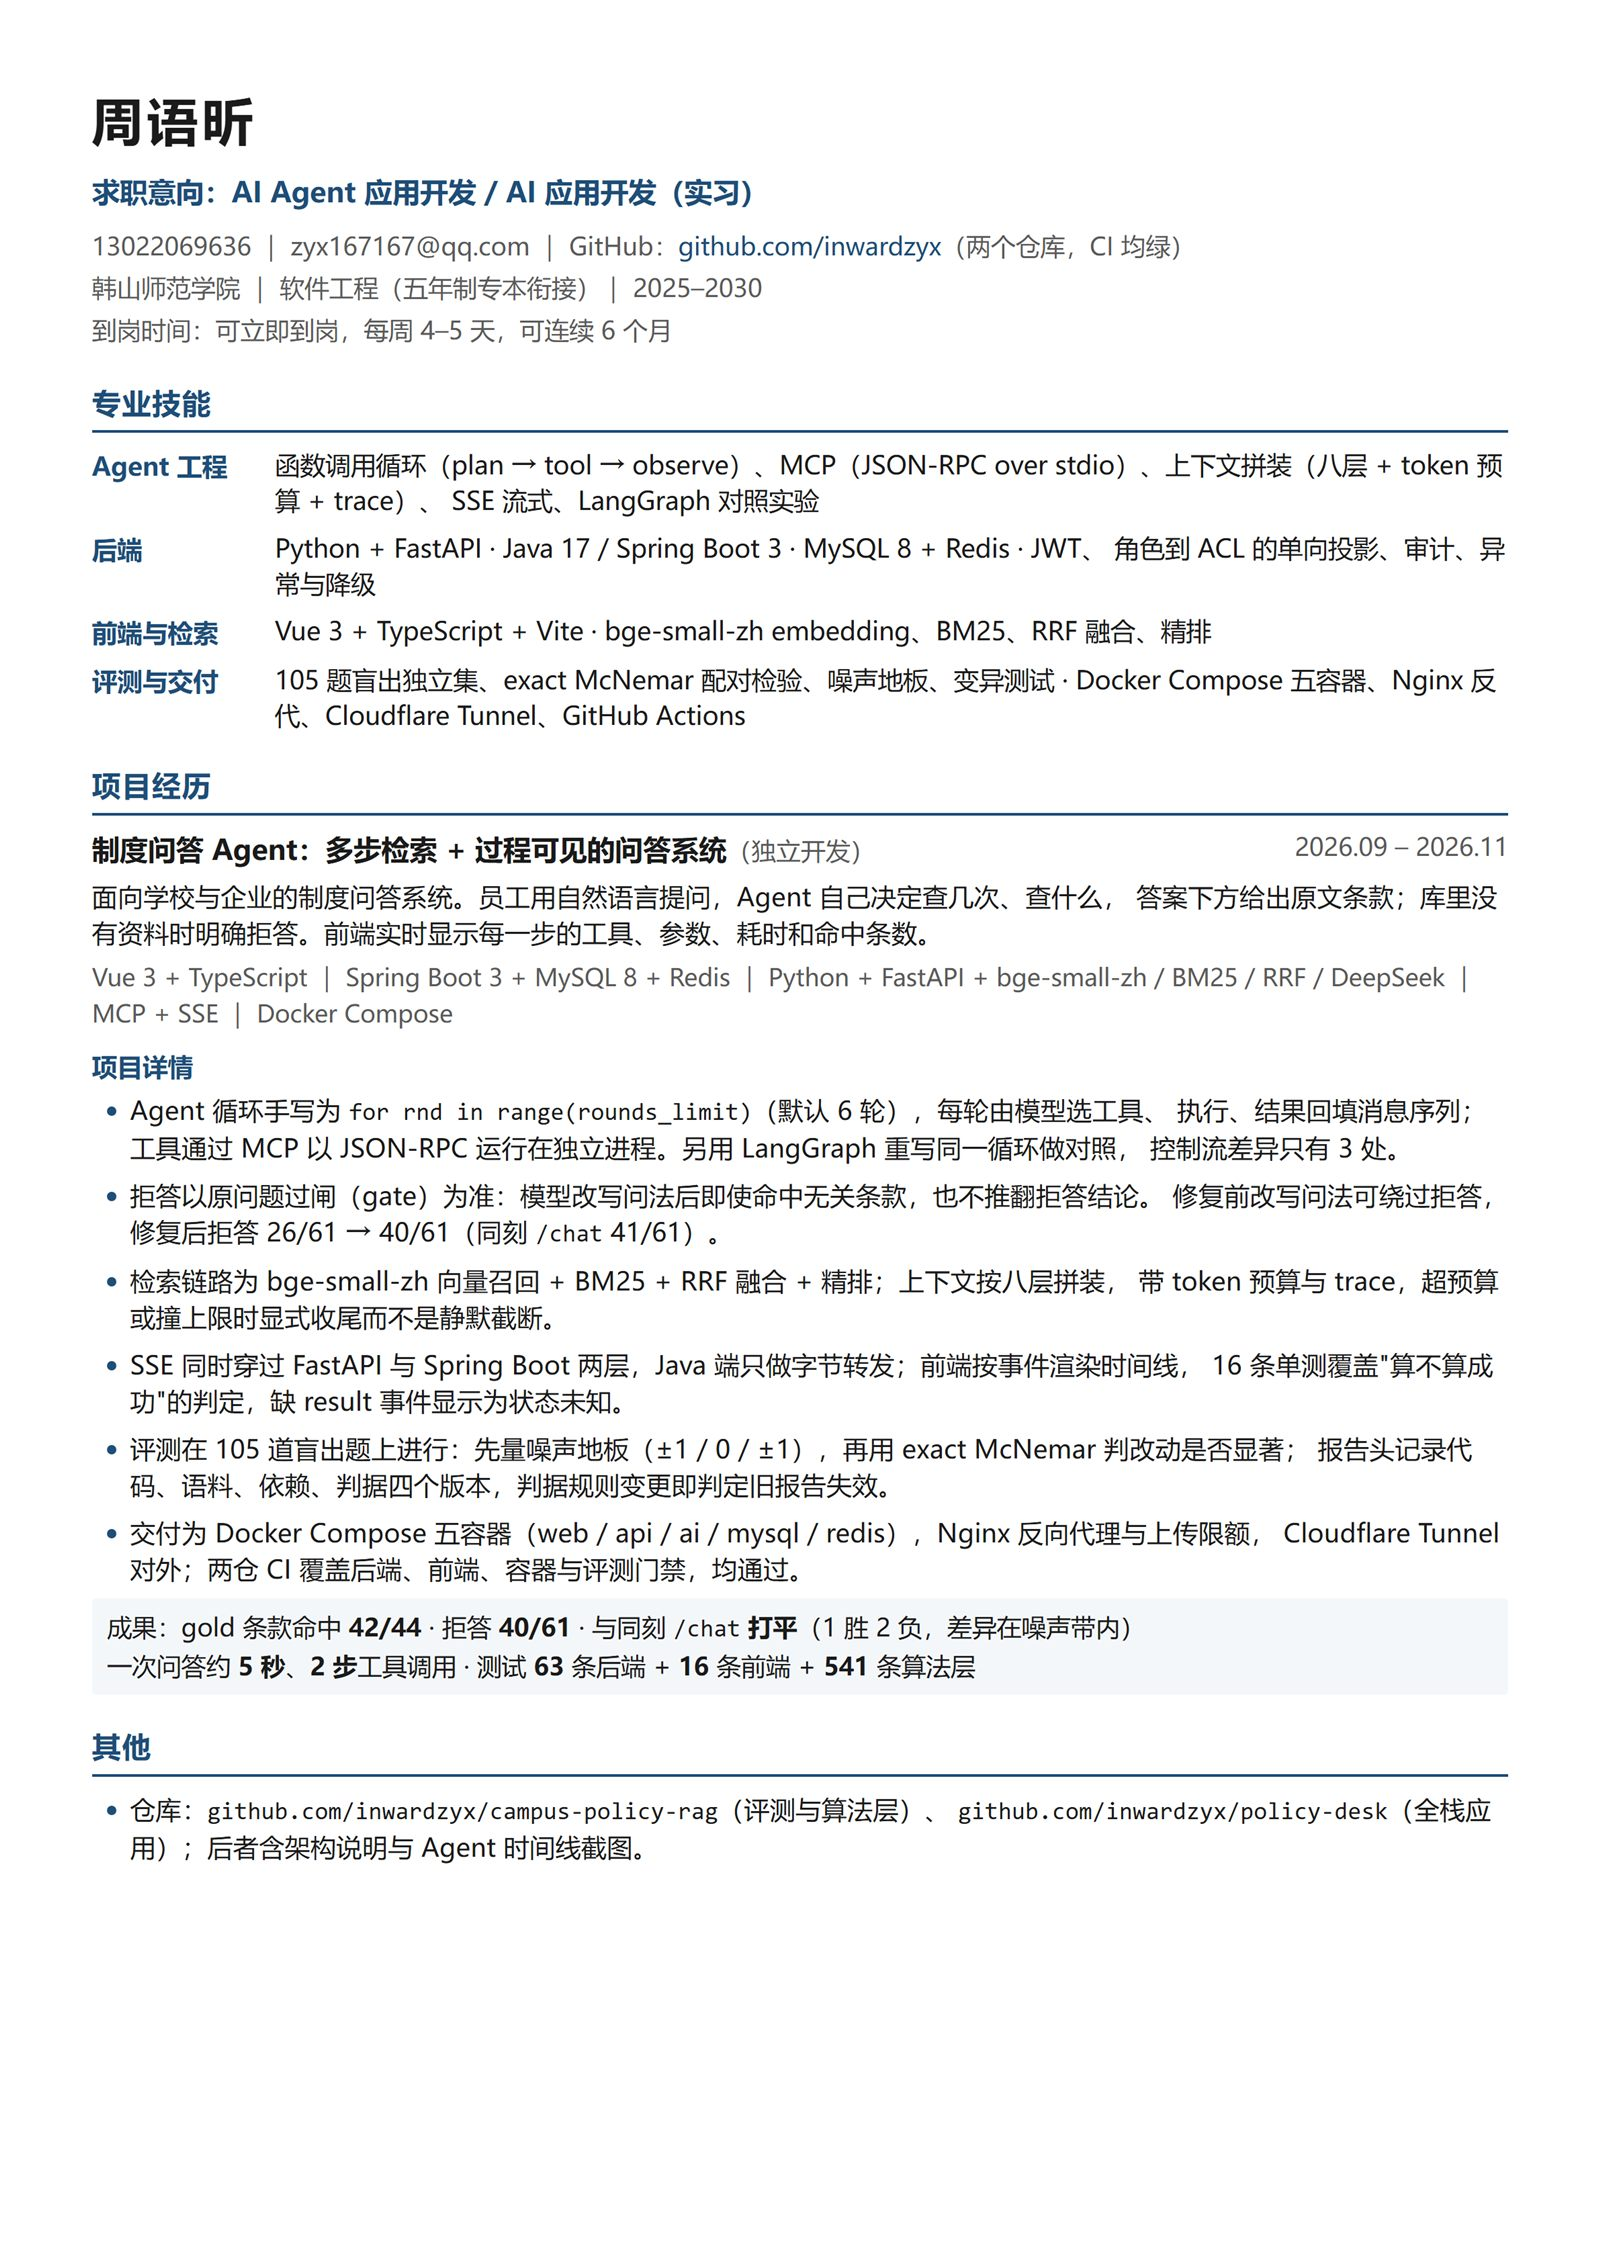
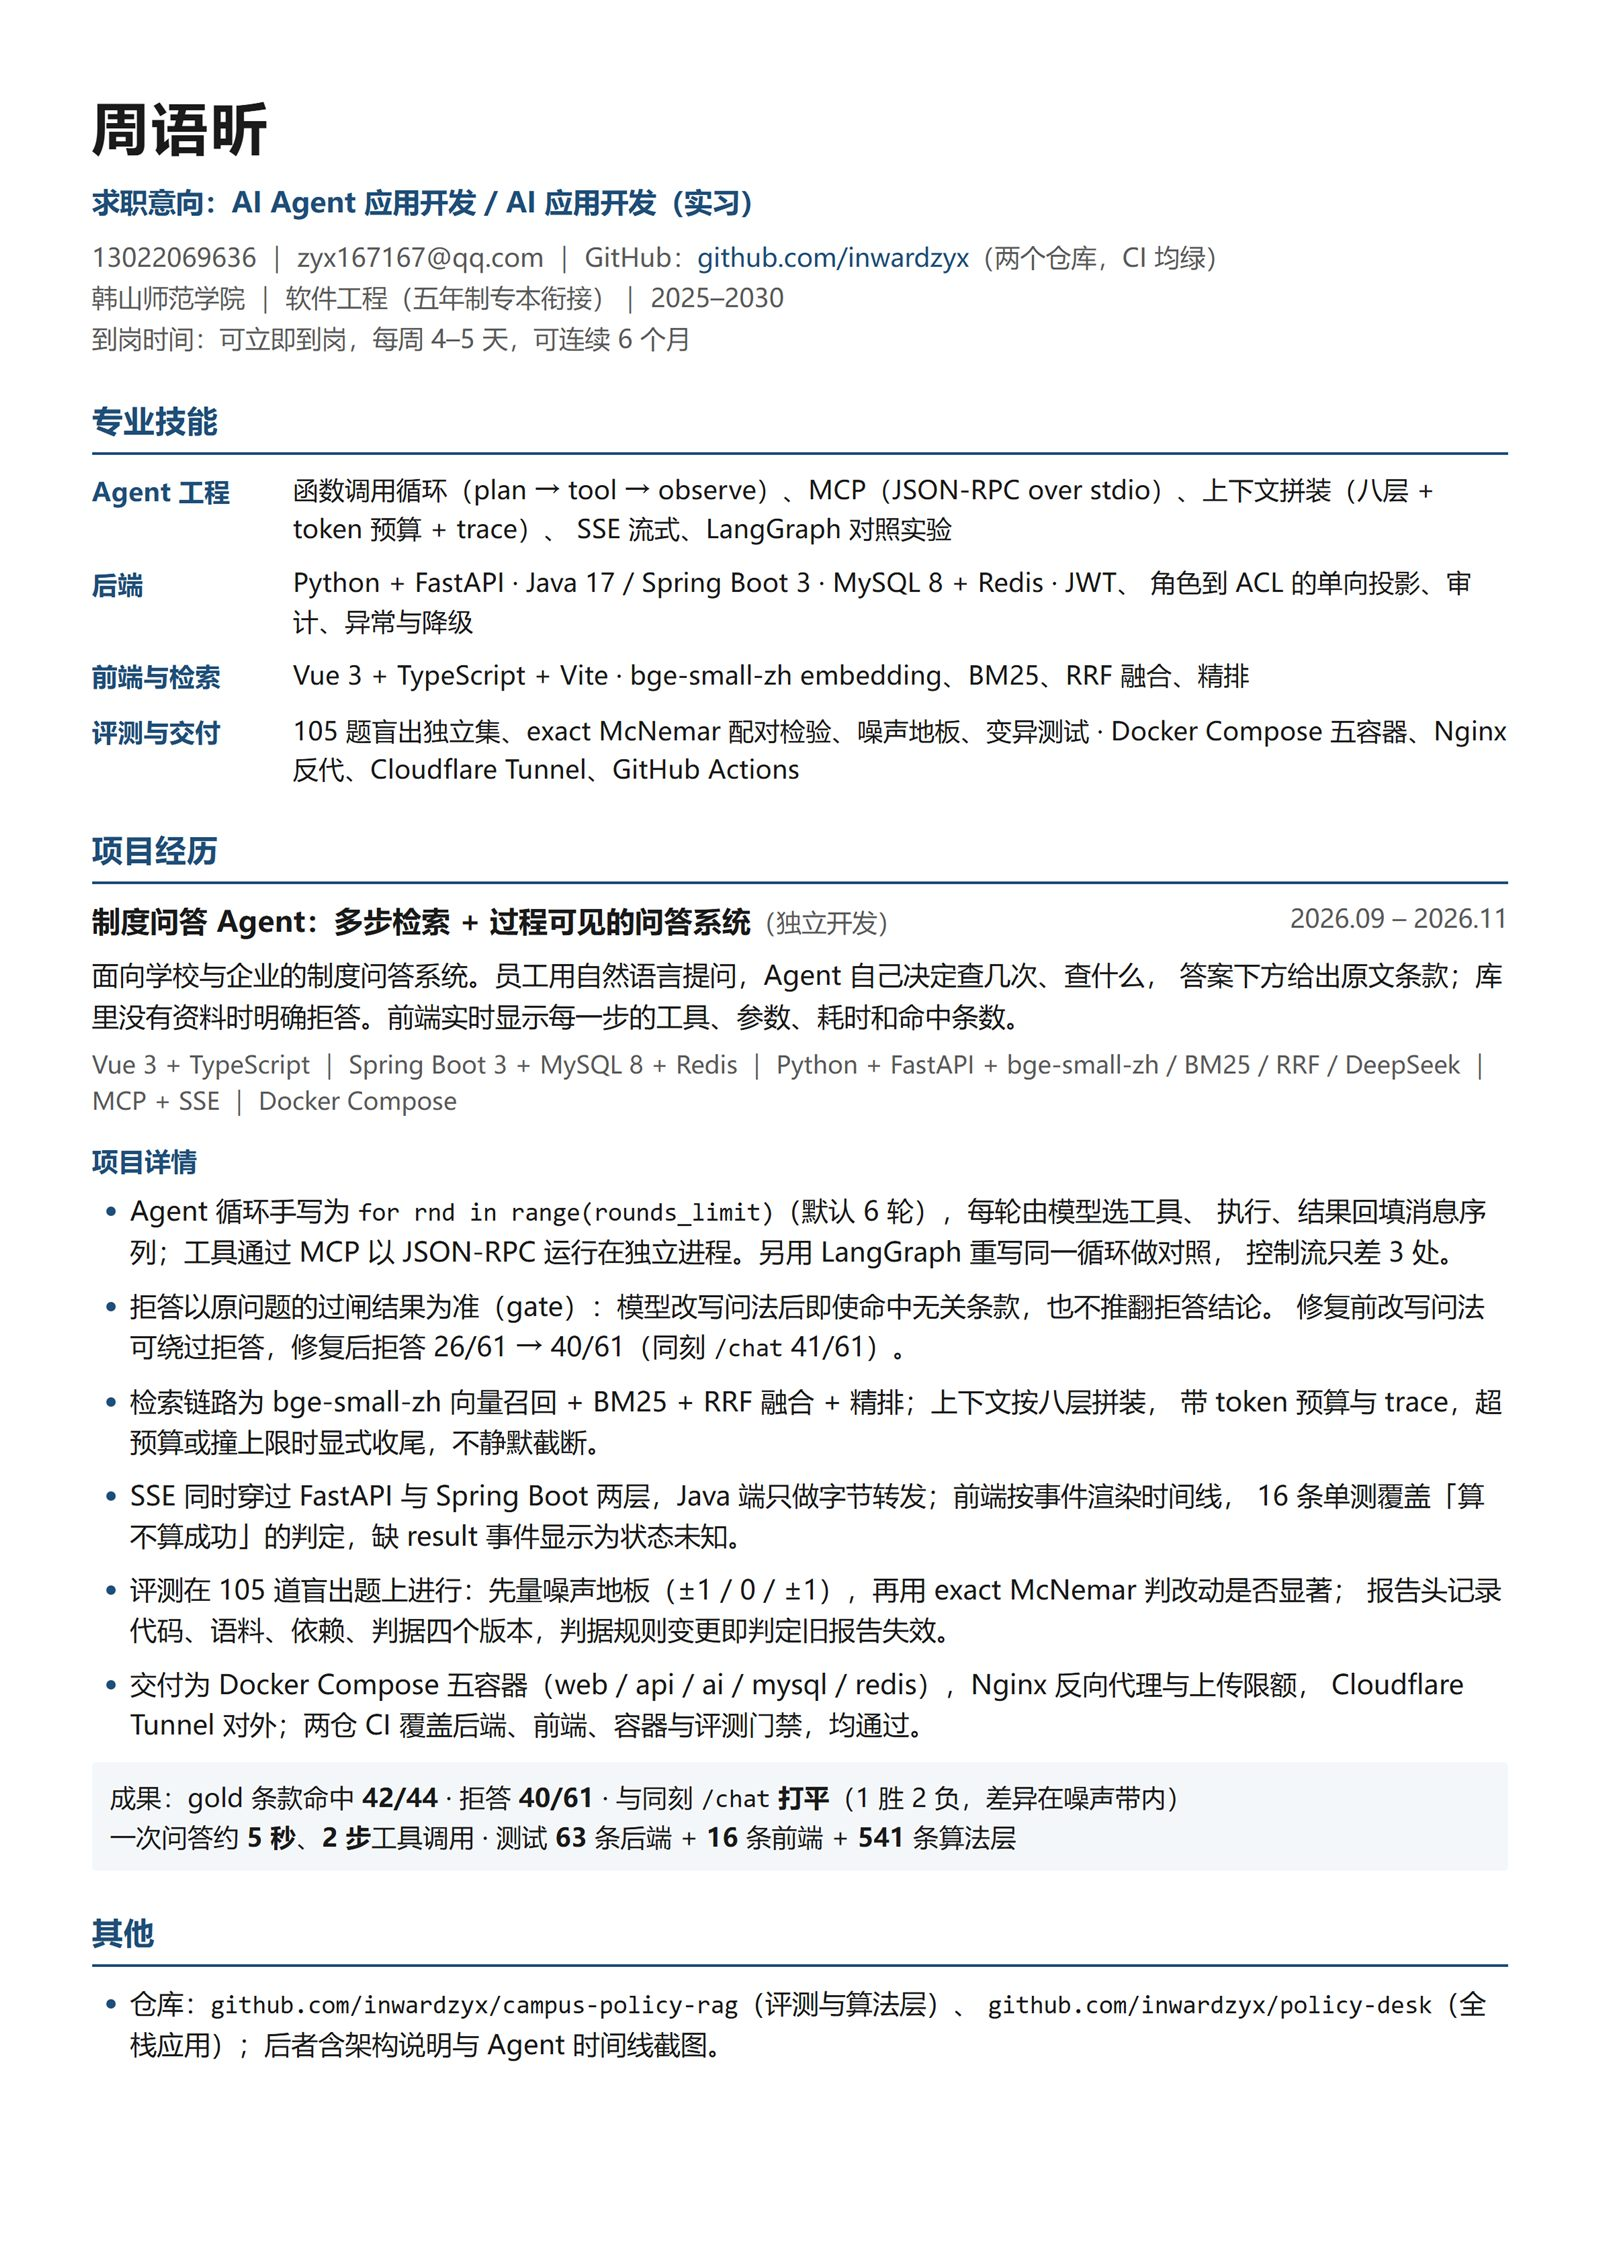
style(resume): 版式收紧到一页且更易扫（页边距 13/15mm、正文 10pt、行距 1.5、栏宽 23mm）
- 页边距 10.5/12.5mm → 13/15mm，正文 9.6 → 10pt，行距 1.42 → 1.5：原来底部空 3cm，现在填满
- h1 21pt、h2 11.4pt、h3 10.8pt，层级拉开；小节间距 5mm
- 技能栏 21 → 23mm、行距 2mm；条目间距 1.4 → 1.8mm
- 删掉用不到的 .pitch / .edu 两条样式
- 文案：去孤行（控制流只差 3 处）、中文引号「算不算成功」、顺句（拒答以原问题的过闸结果为准）
- 仍一页；破折号 0、加粗 8；check_resume_numbers.py ✓

Changed region(s): [[0.0625, 0.0309, 0.9375, 0.928], [0.625, 0.8661, 0.9375, 0.897]]

diff --git a/docs/resume-final-img.html b/docs/resume-final-img.html
@@ -4,7 +4,7 @@
 <meta charset="utf-8" />
 <title>周语昕 · 简历</title>
 <style>
-  @page { size: A4; margin: 10.5mm 12.5mm; }
+  @page { size: A4; margin: 13mm 15mm; }
 
   :root { --ink: #1b1b1b; --muted: #5b5b5b; --line: #e2e2e2; --accent: #1f4e79; }
 
@@ -13,48 +13,46 @@
   body {
     margin: 0; color: var(--ink);
     font-family: "Microsoft YaHei", "PingFang SC", "Segoe UI", sans-serif;
-    font-size: 9.6pt; line-height: 1.42;
+    font-size: 10pt; line-height: 1.5;
     -webkit-print-color-adjust: exact; print-color-adjust: exact;
   }
 
-  h1 { font-size: 19pt; margin: 0 0 2mm; letter-spacing: 2px; font-weight: 600; }
+  h1 { font-size: 21pt; margin: 0 0 1.6mm; letter-spacing: 1.5px; font-weight: 600; }
 
   .head { display: flex; justify-content: space-between; align-items: flex-start; gap: 8mm; }
   .intent { font-size: 10.4pt; font-weight: 600; color: var(--accent); margin-bottom: 1.8mm; }
-  .contact { font-size: 9.2pt; color: var(--muted); line-height: 1.7; }
-  .pitch { font-size: 9.6pt; margin: 0 0 1.6mm; padding-left: 2.2mm; border-left: 2.4px solid var(--accent); }
+  .contact { font-size: 9.5pt; color: var(--muted); line-height: 1.6; }
   .result-first {
-    font-size: 9.2pt; margin: 0 0 1.4mm; padding: 1.4mm 2mm;
+    font-size: 9.6pt; margin: 2.4mm 0 0; padding: 2mm 2.4mm;
     background: #f4f7fa; border-radius: 2px; line-height: 1.5;
   }
   .photo { width: 23mm; height: 31mm; border: 1px solid var(--line); border-radius: 2px; object-fit: cover; flex: 0 0 auto; }
 
   h2 {
-    font-size: 10.8pt; margin: 4mm 0 1.8mm; padding-bottom: 1mm;
+    font-size: 11.4pt; margin: 5mm 0 2mm; padding-bottom: 1.2mm;
     border-bottom: 1.4px solid var(--accent); color: var(--accent); letter-spacing: 0.5px;
   }
 
-  h3 { font-size: 10.4pt; margin: 0 0 1.2mm; }
-  h3 .role { font-weight: 400; color: var(--muted); font-size: 9.2pt; }
-  h3 .when { font-weight: 400; color: var(--muted); font-size: 9.2pt; float: right; }
+  h3 { font-size: 10.8pt; margin: 0 0 1.4mm; }
+  h3 .role { font-weight: 400; color: var(--muted); font-size: 9.4pt; }
+  h3 .when { font-weight: 400; color: var(--muted); font-size: 9.4pt; float: right; }
 
-  .desc { margin: 0 0 1mm; }
-  .stack { font-size: 8.9pt; color: var(--muted); margin: 0 0 1.4mm; line-height: 1.5; }
+  .desc { margin: 0 0 1.2mm; line-height: 1.55; }
+  .stack { font-size: 9pt; color: var(--muted); margin: 0 0 1.6mm; line-height: 1.5; }
 
-  .lab { font-size: 9.4pt; font-weight: 600; color: var(--accent); margin: 2.4mm 0 0.9mm; }
+  .lab { font-size: 9.8pt; font-weight: 600; color: var(--accent); margin: 3mm 0 1.2mm; }
 
   ul { margin: 0; padding-left: 5mm; }
-  li { margin-bottom: 1.4mm; }
+  li { margin-bottom: 1.8mm; }
   li::marker { color: var(--accent); }
 
   b { font-weight: 600; }
   .kw { color: var(--accent); font-weight: 600; }
-  code { font-family: Consolas, monospace; font-size: 9.1pt; }
+  code { font-family: Consolas, monospace; font-size: 9.4pt; }
+  p { margin: 0; }
 
-  .edu { display: flex; justify-content: space-between; font-size: 10pt; margin-top: 1mm; }
-  .edu .when { color: var(--muted); font-size: 9.2pt; }
 
-  .skills { display: grid; grid-template-columns: 21mm 1fr; gap: 1.5mm 3mm; font-size: 9.4pt; }
+  .skills { display: grid; grid-template-columns: 23mm 1fr; gap: 2mm 3.4mm; font-size: 9.6pt; }
   .skills .k { color: var(--accent); font-weight: 600; padding-top: 0.2mm; }
 
   li, h3 { break-inside: avoid; }
@@ -112,13 +110,13 @@
 <ul>
   <li>Agent 循环手写为 <code>for rnd in range(rounds_limit)</code>（默认 6 轮），每轮由模型选工具、
     执行、结果回填消息序列；工具通过 MCP 以 JSON-RPC 运行在独立进程。另用 LangGraph 重写同一循环做对照，
-    控制流差异只有 3 处。</li>
-  <li>拒答以原问题过闸（gate）为准：模型改写问法后即使命中无关条款，也不推翻拒答结论。
+    控制流只差 3 处。</li>
+  <li>拒答以原问题的过闸结果为准（gate）：模型改写问法后即使命中无关条款，也不推翻拒答结论。
     修复前改写问法可绕过拒答，修复后拒答 26/61 → 40/61（同刻 <code>/chat</code> 41/61）。</li>
   <li>检索链路为 bge-small-zh 向量召回 + BM25 + RRF 融合 + 精排；上下文按八层拼装，
-    带 token 预算与 trace，超预算或撞上限时显式收尾而不是静默截断。</li>
+    带 token 预算与 trace，超预算或撞上限时显式收尾，不静默截断。</li>
   <li>SSE 同时穿过 FastAPI 与 Spring Boot 两层，Java 端只做字节转发；前端按事件渲染时间线，
-    16 条单测覆盖"算不算成功"的判定，缺 result 事件显示为状态未知。</li>
+    16 条单测覆盖「算不算成功」的判定，缺 result 事件显示为状态未知。</li>
   <li>评测在 105 道盲出题上进行：先量噪声地板（±1 / 0 / ±1），再用 exact McNemar 判改动是否显著；
     报告头记录代码、语料、依赖、判据四个版本，判据规则变更即判定旧报告失效。</li>
   <li>交付为 Docker Compose 五容器（web / api / ai / mysql / redis），Nginx 反向代理与上传限额，

diff --git a/docs/resume-final.html b/docs/resume-final.html
@@ -4,7 +4,7 @@
 <meta charset="utf-8" />
 <title>周语昕 · 简历</title>
 <style>
-  @page { size: A4; margin: 10.5mm 12.5mm; }
+  @page { size: A4; margin: 13mm 15mm; }
 
   :root { --ink: #1b1b1b; --muted: #5b5b5b; --line: #e2e2e2; --accent: #1f4e79; }
 
@@ -13,48 +13,46 @@
   body {
     margin: 0; color: var(--ink);
     font-family: "Microsoft YaHei", "PingFang SC", "Segoe UI", sans-serif;
-    font-size: 9.6pt; line-height: 1.42;
+    font-size: 10pt; line-height: 1.5;
     -webkit-print-color-adjust: exact; print-color-adjust: exact;
   }
 
-  h1 { font-size: 19pt; margin: 0 0 2mm; letter-spacing: 2px; font-weight: 600; }
+  h1 { font-size: 21pt; margin: 0 0 1.6mm; letter-spacing: 1.5px; font-weight: 600; }
 
   .head { display: flex; justify-content: space-between; align-items: flex-start; gap: 8mm; }
   .intent { font-size: 10.4pt; font-weight: 600; color: var(--accent); margin-bottom: 1.8mm; }
-  .contact { font-size: 9.2pt; color: var(--muted); line-height: 1.7; }
-  .pitch { font-size: 9.6pt; margin: 0 0 1.6mm; padding-left: 2.2mm; border-left: 2.4px solid var(--accent); }
+  .contact { font-size: 9.5pt; color: var(--muted); line-height: 1.6; }
   .result-first {
-    font-size: 9.2pt; margin: 0 0 1.4mm; padding: 1.4mm 2mm;
+    font-size: 9.6pt; margin: 2.4mm 0 0; padding: 2mm 2.4mm;
     background: #f4f7fa; border-radius: 2px; line-height: 1.5;
   }
   .photo { width: 23mm; height: 31mm; border: 1px solid var(--line); border-radius: 2px; object-fit: cover; flex: 0 0 auto; }
 
   h2 {
-    font-size: 10.8pt; margin: 4mm 0 1.8mm; padding-bottom: 1mm;
+    font-size: 11.4pt; margin: 5mm 0 2mm; padding-bottom: 1.2mm;
     border-bottom: 1.4px solid var(--accent); color: var(--accent); letter-spacing: 0.5px;
   }
 
-  h3 { font-size: 10.4pt; margin: 0 0 1.2mm; }
-  h3 .role { font-weight: 400; color: var(--muted); font-size: 9.2pt; }
-  h3 .when { font-weight: 400; color: var(--muted); font-size: 9.2pt; float: right; }
+  h3 { font-size: 10.8pt; margin: 0 0 1.4mm; }
+  h3 .role { font-weight: 400; color: var(--muted); font-size: 9.4pt; }
+  h3 .when { font-weight: 400; color: var(--muted); font-size: 9.4pt; float: right; }
 
-  .desc { margin: 0 0 1mm; }
-  .stack { font-size: 8.9pt; color: var(--muted); margin: 0 0 1.4mm; line-height: 1.5; }
+  .desc { margin: 0 0 1.2mm; line-height: 1.55; }
+  .stack { font-size: 9pt; color: var(--muted); margin: 0 0 1.6mm; line-height: 1.5; }
 
-  .lab { font-size: 9.4pt; font-weight: 600; color: var(--accent); margin: 2.4mm 0 0.9mm; }
+  .lab { font-size: 9.8pt; font-weight: 600; color: var(--accent); margin: 3mm 0 1.2mm; }
 
   ul { margin: 0; padding-left: 5mm; }
-  li { margin-bottom: 1.4mm; }
+  li { margin-bottom: 1.8mm; }
   li::marker { color: var(--accent); }
 
   b { font-weight: 600; }
   .kw { color: var(--accent); font-weight: 600; }
-  code { font-family: Consolas, monospace; font-size: 9.1pt; }
+  code { font-family: Consolas, monospace; font-size: 9.4pt; }
+  p { margin: 0; }
 
-  .edu { display: flex; justify-content: space-between; font-size: 10pt; margin-top: 1mm; }
-  .edu .when { color: var(--muted); font-size: 9.2pt; }
 
-  .skills { display: grid; grid-template-columns: 21mm 1fr; gap: 1.5mm 3mm; font-size: 9.4pt; }
+  .skills { display: grid; grid-template-columns: 23mm 1fr; gap: 2mm 3.4mm; font-size: 9.6pt; }
   .skills .k { color: var(--accent); font-weight: 600; padding-top: 0.2mm; }
 
   li, h3 { break-inside: avoid; }
@@ -111,13 +109,13 @@
 <ul>
   <li>Agent 循环手写为 <code>for rnd in range(rounds_limit)</code>（默认 6 轮），每轮由模型选工具、
     执行、结果回填消息序列；工具通过 MCP 以 JSON-RPC 运行在独立进程。另用 LangGraph 重写同一循环做对照，
-    控制流差异只有 3 处。</li>
-  <li>拒答以原问题过闸（gate）为准：模型改写问法后即使命中无关条款，也不推翻拒答结论。
+    控制流只差 3 处。</li>
+  <li>拒答以原问题的过闸结果为准（gate）：模型改写问法后即使命中无关条款，也不推翻拒答结论。
     修复前改写问法可绕过拒答，修复后拒答 26/61 → 40/61（同刻 <code>/chat</code> 41/61）。</li>
   <li>检索链路为 bge-small-zh 向量召回 + BM25 + RRF 融合 + 精排；上下文按八层拼装，
-    带 token 预算与 trace，超预算或撞上限时显式收尾而不是静默截断。</li>
+    带 token 预算与 trace，超预算或撞上限时显式收尾，不静默截断。</li>
   <li>SSE 同时穿过 FastAPI 与 Spring Boot 两层，Java 端只做字节转发；前端按事件渲染时间线，
-    16 条单测覆盖"算不算成功"的判定，缺 result 事件显示为状态未知。</li>
+    16 条单测覆盖「算不算成功」的判定，缺 result 事件显示为状态未知。</li>
   <li>评测在 105 道盲出题上进行：先量噪声地板（±1 / 0 / ±1），再用 exact McNemar 判改动是否显著；
     报告头记录代码、语料、依赖、判据四个版本，判据规则变更即判定旧报告失效。</li>
   <li>交付为 Docker Compose 五容器（web / api / ai / mysql / redis），Nginx 反向代理与上传限额，
